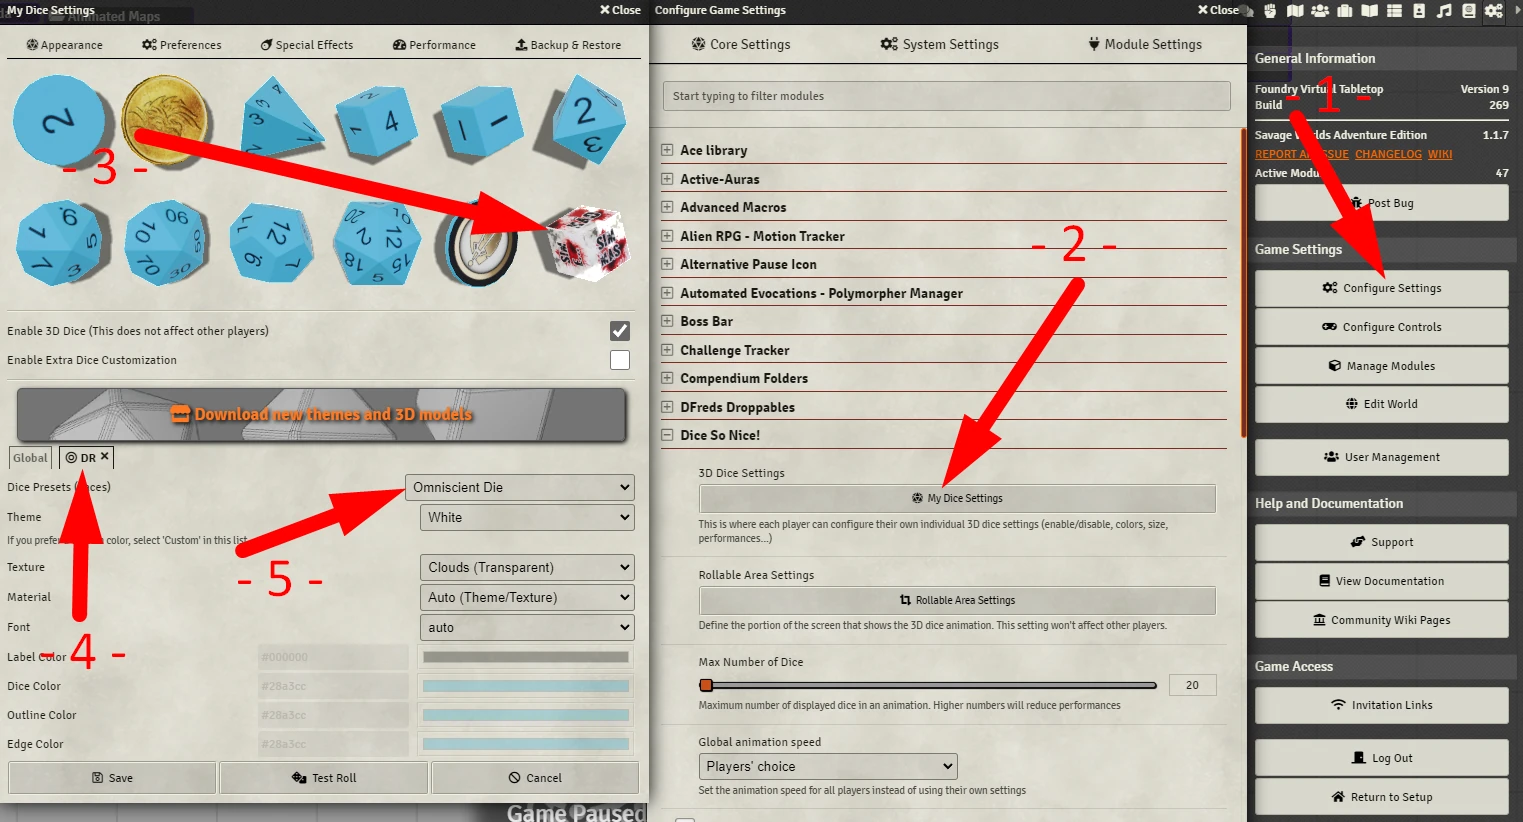
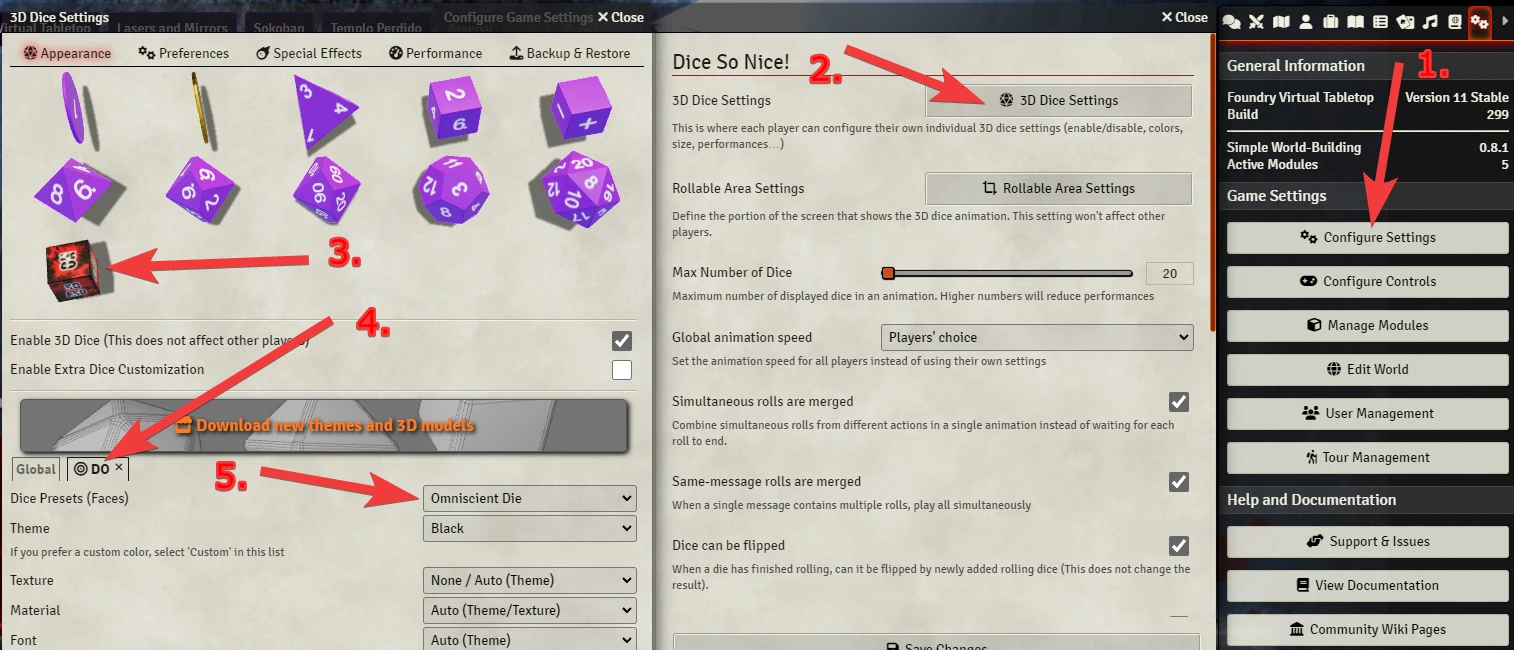
1.6

diff --git a/scripts/main.js b/scripts/main.js
@@ -6,7 +6,6 @@ Hooks.once('init', function() {
 
   // --------------------------------------------------
   // SETTINGS
-  const debouncedReload = debounce(() => location.reload(), 1000); // RELOAD AFTER CHANGE
   
   // call this with: game.settings.get("omniscient-die", "theme")
   game.settings.register(moduleName, 'theme', {
@@ -24,7 +23,7 @@ Hooks.once('init', function() {
     },
     default: "ptbr-color",
     config: true,
-    onChange: debouncedReload
+    requiresReload: true
   });
   // location ->      "book": game.i18n.localize('STORYTELLER.Settings.ThemeBook'), //[game.i18n.localize("omniscient-die.dice.black.name")]: game.i18n.localize("omniscient-die.dice.black.label"),
 
@@ -43,12 +42,11 @@ Hooks.once('init', function() {
   game.keybindings.register(moduleName, "omniscientDie", {
     name: game.i18n.localize("omniscient-die.keybindings.name"),
     hint: game.i18n.localize("omniscient-die.keybindings.hint"),
-    editable: [{ key: "KeyR", modifiers: []}],
+    editable: [{ key: "KeyO", modifiers: []}],
     onDown: async () =>  {
-      const roll = await new Roll("1dr").evaluate({async: true});
+      const roll = await new Roll("1do").evaluate({async: true});
       game.dice3d.showForRoll(roll, game.user, true); // to show for all users
       if ( game.settings.get("omniscient-die", "chattip") ) {
-              console.log(roll.result);
         resultToChatMessage (roll.result);
       }      
     },
@@ -61,7 +59,7 @@ Hooks.once('init', function() {
 }); // END INIT
 
 Hooks.once("init", async function () {
-  CONFIG.Dice.terms["r"] = dadoDaResposta;
+  CONFIG.Dice.terms["o"] = dadoDaResposta;
 });
 
 Hooks.on('diceSoNiceRollComplete', (chatMessageID) => {

diff --git a/scripts/die.js b/scripts/die.js
@@ -6,6 +6,6 @@ export class dadoDaResposta extends Die {
 
     /* -------------------------------------------- */
     /** @override */
-    static DENOMINATION = "r";
+    static DENOMINATION = "o"; // "r";
 
 }

diff --git a/README.md b/README.md
@@ -65,7 +65,7 @@ Você pode instalar esse com esse link: **https://raw.githubusercontent.com/brun
 ## Português
 Siga as instruções da imagem. Depois, use a expressão de rolagem `/r 1dr` para rolar. O módulo tem um atalho de teclado, cheque controles no Foundry VTT.
 <p align="center">
-  <img width="1000" src="docs/ptbr-guide-01.webp">
+  <img width="1000" src="docs/en-guide-01.webp">
 </p>
 
 Você pode digitar no chat `/r 1dr` ou criar uma expressão de rolagem.
@@ -132,3 +132,6 @@ You also need to share with me the default name convention for your language. Th
 <p align="center">
   <img width="200" src="docs/capybara.webp">
 </p>
+
+# Mestre Digital
+About this module creator: https://sites.google.com/view/mestredigitalmodules
